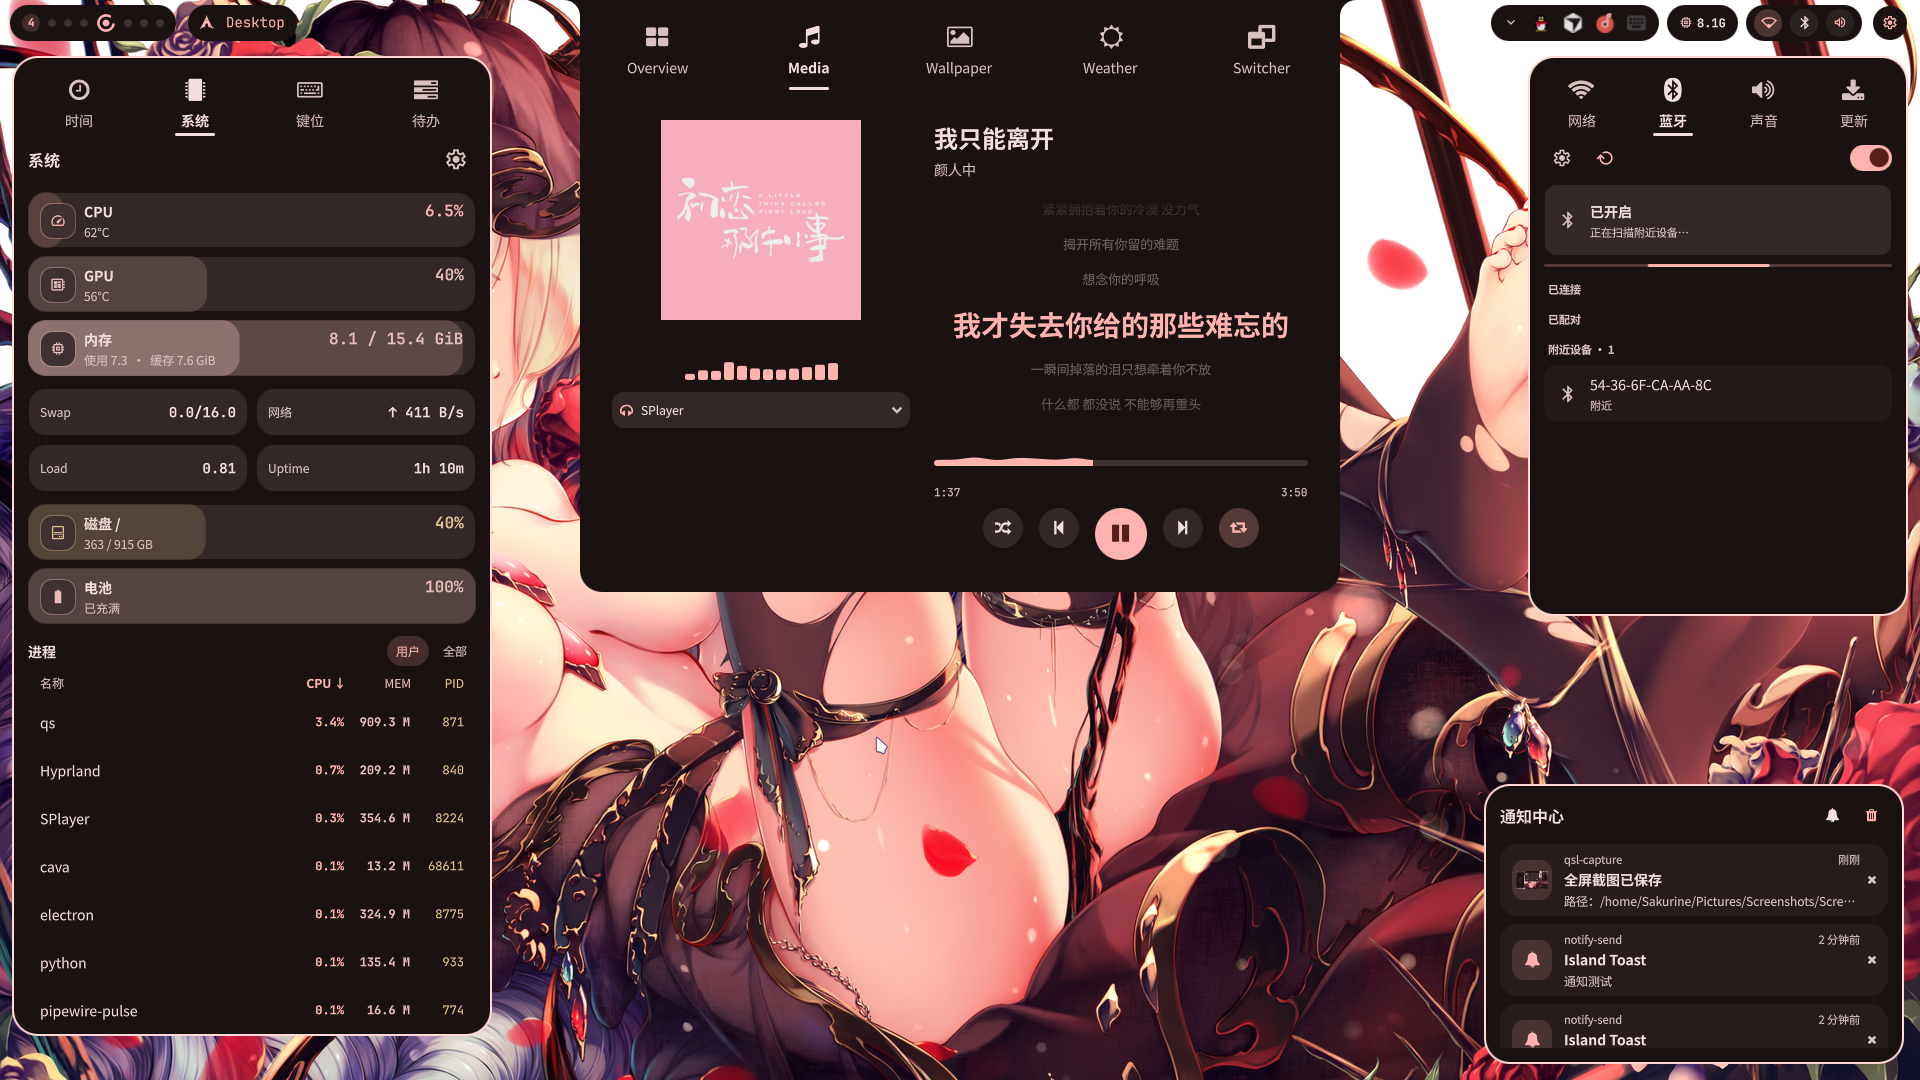
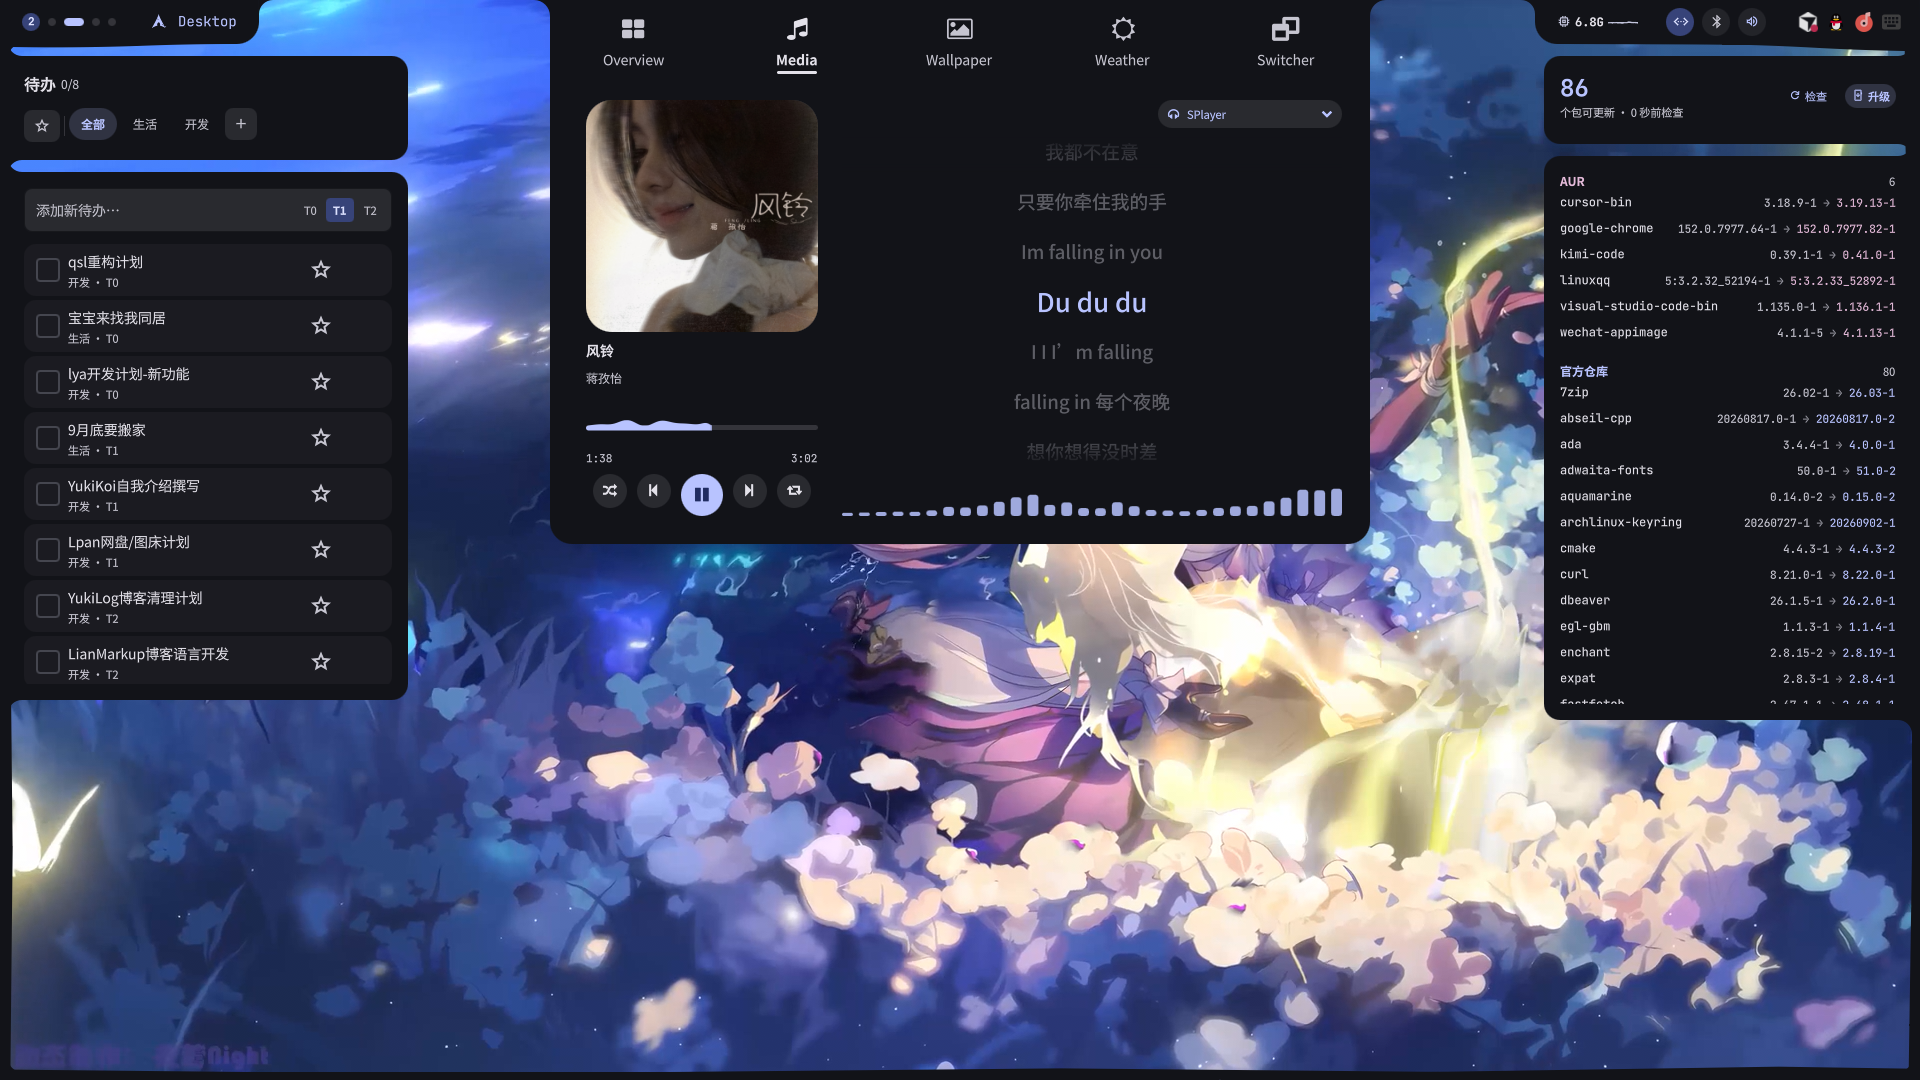
docs: 换掉 2025-07-31 的旧截图，qsl 一节改成按页面分段讲
旧图早于合并框窗改造和第 8 轮灵动岛重做，界面已经完全对不上：岛高压低、
tab 条从底部移到顶部、壁纸页改成卷轴、媒体页歌词吃满右侧通高、Overview
重排。表格式的「图 + 一句话」也塞不下这些页面现在的信息量。

改成按页面分段，每段先讲这一页在做什么再放图：

  qsl-desktop        顶栏与四角凹角耳（替换旧图）
  qsl-hub-overview   Overview + 左栏系统监控 + 右栏音频（新增）
  qsl-hub-media      Media 歌词通高 + cava 频谱 + 待办 + 更新（替换旧图）
  qsl-hub-wallpaper  Wallpaper 卷轴 + 剪贴板 + 通知中心（新增）
  qsl-launcher       启动器 + 剪贴板 + 磁贴面板（替换旧图）

新图每张都顺带把当时开着的侧栏和面板框了进来，所以原先单独占一行的
剪贴板、面板合集两张不再需要，引用一并去掉。

顺带给桌面图补了一句顶栏分区说明——四个凹角耳不解释的话容易被当成
壁纸的一部分。

diff --git a/README.md b/README.md
@@ -707,6 +707,9 @@ sudo pacman -S --needed neovim git curl tree-sitter-cli
 
 ![桌面](./image/qsl-desktop.png)
 
+顶栏左起是工作区指示与活动窗口，中间是当前媒体，右侧是 CPU / GPU / 内存、
+网络、蓝牙、电量与托盘；四角那四个小方块是凹角耳，把屏幕圆角补齐。
+
 当前分层：
 
 - `ui/frame/`：**合并框窗**。顶栏两段 + 三边 rail + 七个面板全在一个全屏 layer
@@ -754,18 +757,31 @@ ln -sf ~/.lian/qsl ~/.config/quickshell
 
 ###### 截图
 
-> ⚠ 下面这批图拍摄于 2025-07-31，**早于合并框窗改造和灵动岛重做**，跟现在的
-> 界面对不上：岛高压低了、tab 条从底部移到了顶部、壁纸页改成了卷轴、媒体页
-> 歌词吃满右侧通高、Overview 重排过。等我重拍。
+灵动岛五个页面（Overview / Media / Wallpaper / Weather / Switcher）共用顶部
+tab 条，`Alt+Tab` 唤出。下面每张都顺带把当时开着的侧栏和面板框了进来。
 
-| 图 | 内容 |
-|---|---|
-| ![Hub 天气](./image/qsl-hub-weather.png) | Island Hub · Weather |
-| ![Hub 媒体](./image/qsl-hub-media.png) | Island Hub · Media（旁侧栏 / 通知） |
-| ![Switcher](./image/qsl-hub-switcher.png) | Island Hub · Switcher |
-| ![启动器](./image/qsl-launcher.png) | `Super+A` 应用启动器 |
-| ![剪贴板](./image/qsl-clipboard.png) | `Super+Z` 剪贴板 |
-| ![面板合集](./image/qsl-panels.png) | 左栏键位 + Hub 壁纸 + 右栏 + 通知中心 |
+**Overview** — 身份卡（发行版 / 会话 / 开机时长 / 电量）、大钟、天气摘要、
+可滚待办、带农历与节气的月历。左栏是系统监控（CPU/GPU/内存环形表、PSI、
+磁盘与 Swap、网络曲线、进程表），右栏是音频（输出 / 输入 / 分应用音量）。
+
+![Hub Overview](./image/qsl-hub-overview.png)
+
+**Media** — 封面与曲目在左，歌词吃满右侧通高、焦点行放大，底部是 cava
+驱动的频谱条，右上角可切播放器。左栏待办（标签页 + T0/T1/T2 优先级），
+右栏更新（AUR 与官方仓库分列）。
+
+![Hub Media](./image/qsl-hub-media.png)
+
+**Wallpaper** — 卷轴布局：焦点壁纸居中放大，左右各两张缩小侧列，`←` `→`
+移焦点、`Enter` 应用。顶部信息条给出文件名、模式（图片 / 视频）、渲染后端与
+本页张数。左下剪贴板，右下通知中心。
+
+![Hub Wallpaper](./image/qsl-hub-wallpaper.png)
+
+**启动器**（`Super+A`）— 左侧剪贴板（`Super+Z`，图文双路历史），右下磁贴
+面板（`Super+X`，「执行 / 服务」两页快捷入口）。
+
+![启动器](./image/qsl-launcher.png)
 
 IPC 目录见左栏 Keys 页的「IPC」组（数据在 [qsl/asset/hotkeys.json](qsl/asset/hotkeys.json)），运行时真实注册表用 `qs ipc show`；键位以 [hypr/lua/binds.lua](hypr/lua/binds.lua) 与左栏 Keys 页为准。
 
